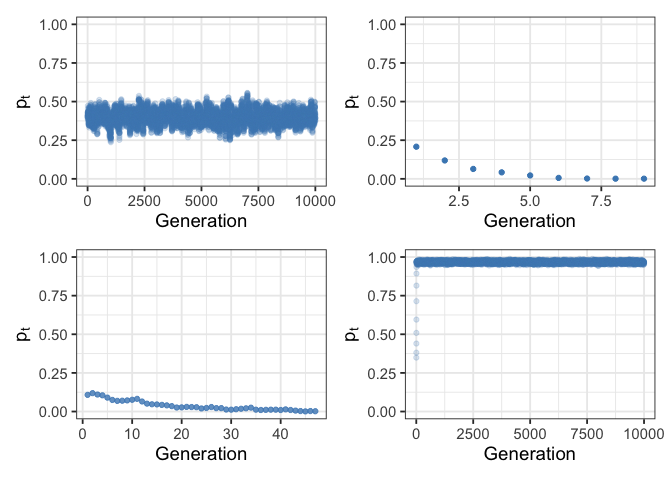
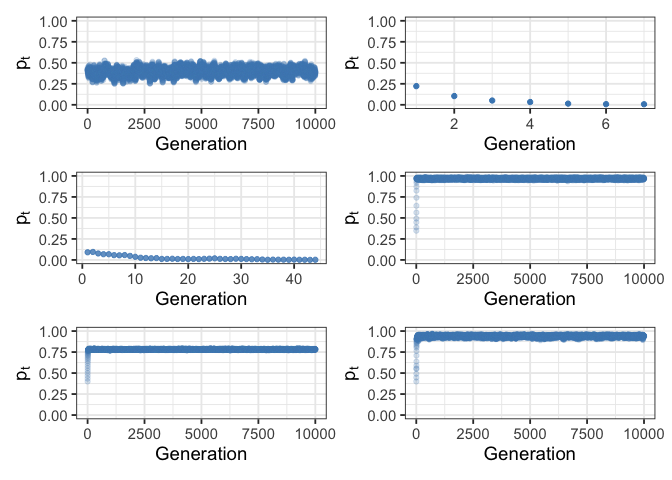
update readme

diff --git a/README.md b/README.md
@@ -85,10 +85,13 @@ p_3 <- plot_a_simulation(tp_3,alpha_val=0.8) + ylim(c(0,1))
 tp_4 <- turelli_simulation(0.3,1.02,0.1,0.8,1000)
 p_4 <- plot_a_simulation(tp_4,alpha_val=0.2) + ylim(c(0,1))
 
+tp_5 <- infection_freq_rmu_ci_iteration(1.225,c(0.05,0.8),c(0.99,0.01),0.1,10000)
+p_5 <- plot_a_simulation(tp_5,alpha_val=0.2) + ylim(c(0,1))
+
 tp_6 <- infection_freq_rf_rmu_iteration(1.2,0.1,c(0.01,0.0),c(1.0,0.0),1000)
 p_6 <- plot_a_simulation(tp_6,alpha_val=0.2) + ylim(c(0,1))
 
-(p_1 + p_2) / (p_3 + p_4)
+(p_1 + p_2) / (p_3 + p_4) / (p_5 + p_6)
 ```
 
 <img src="man/figures/README-examp_sims-1.png" width="100%" />
